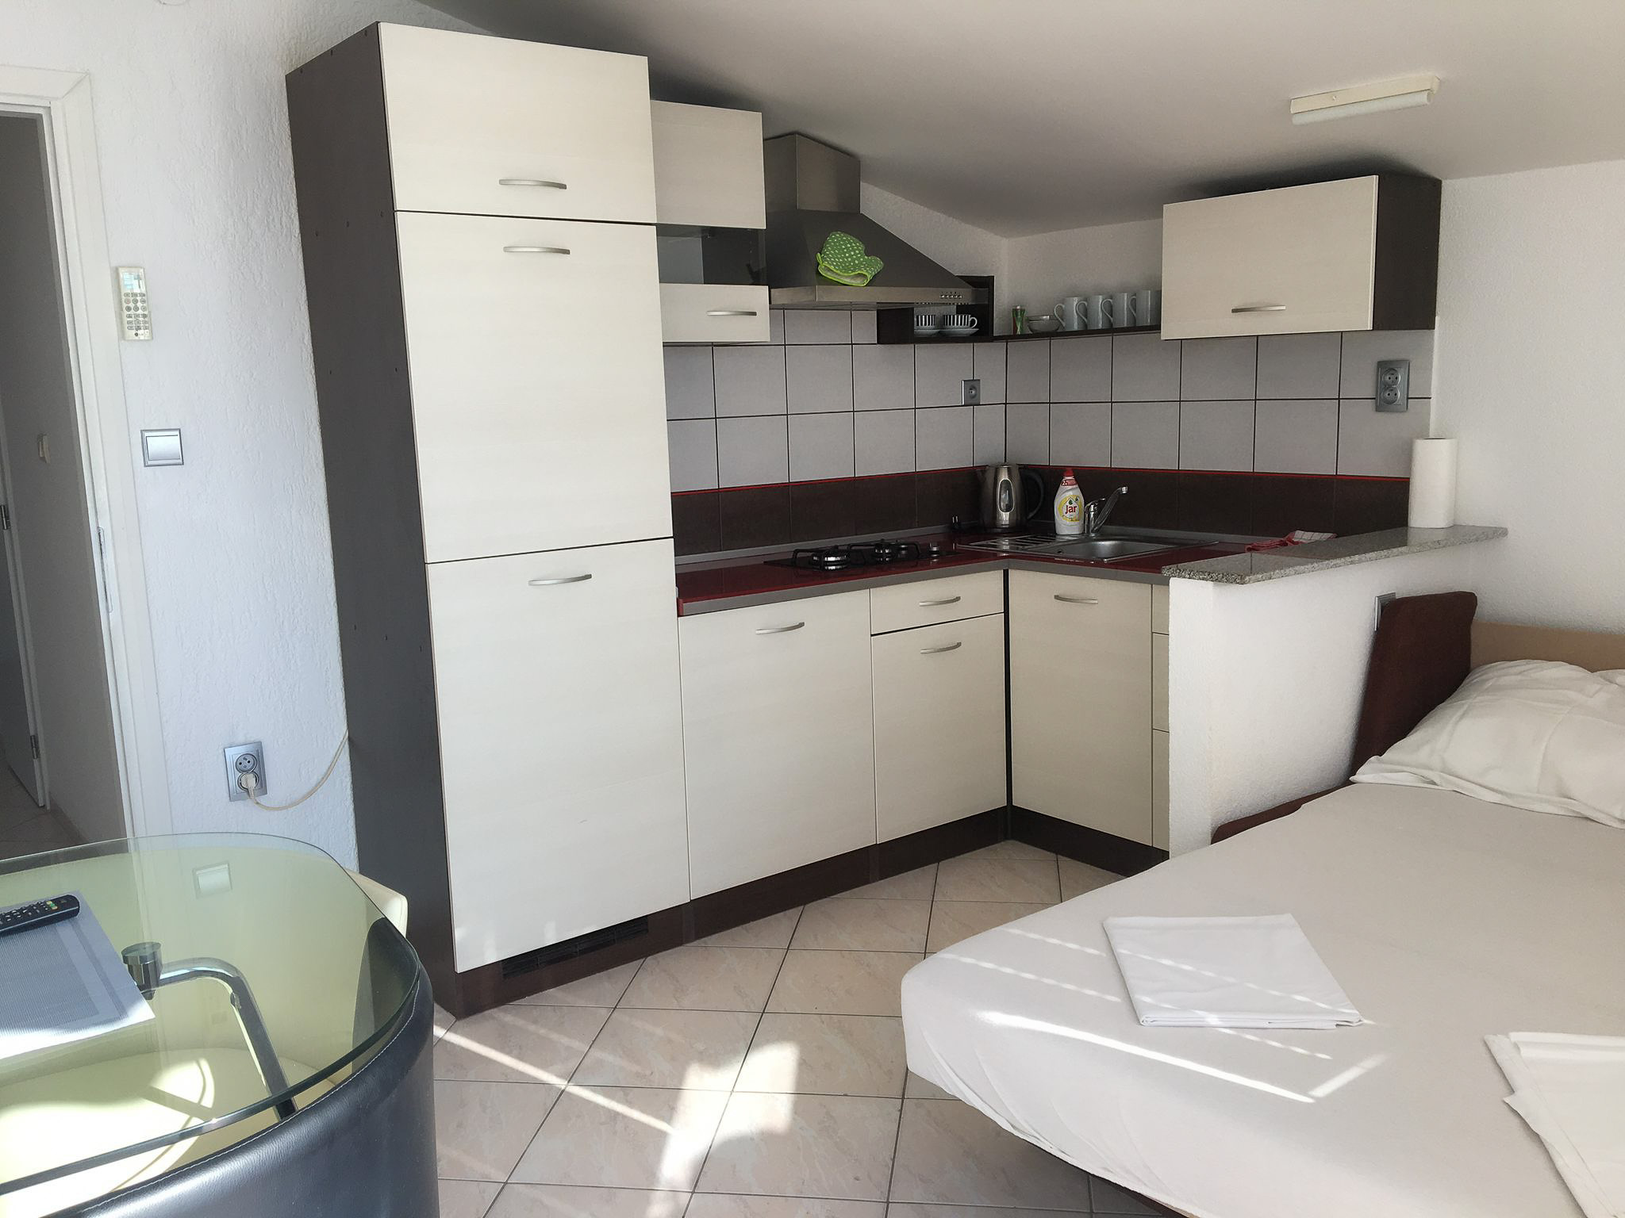
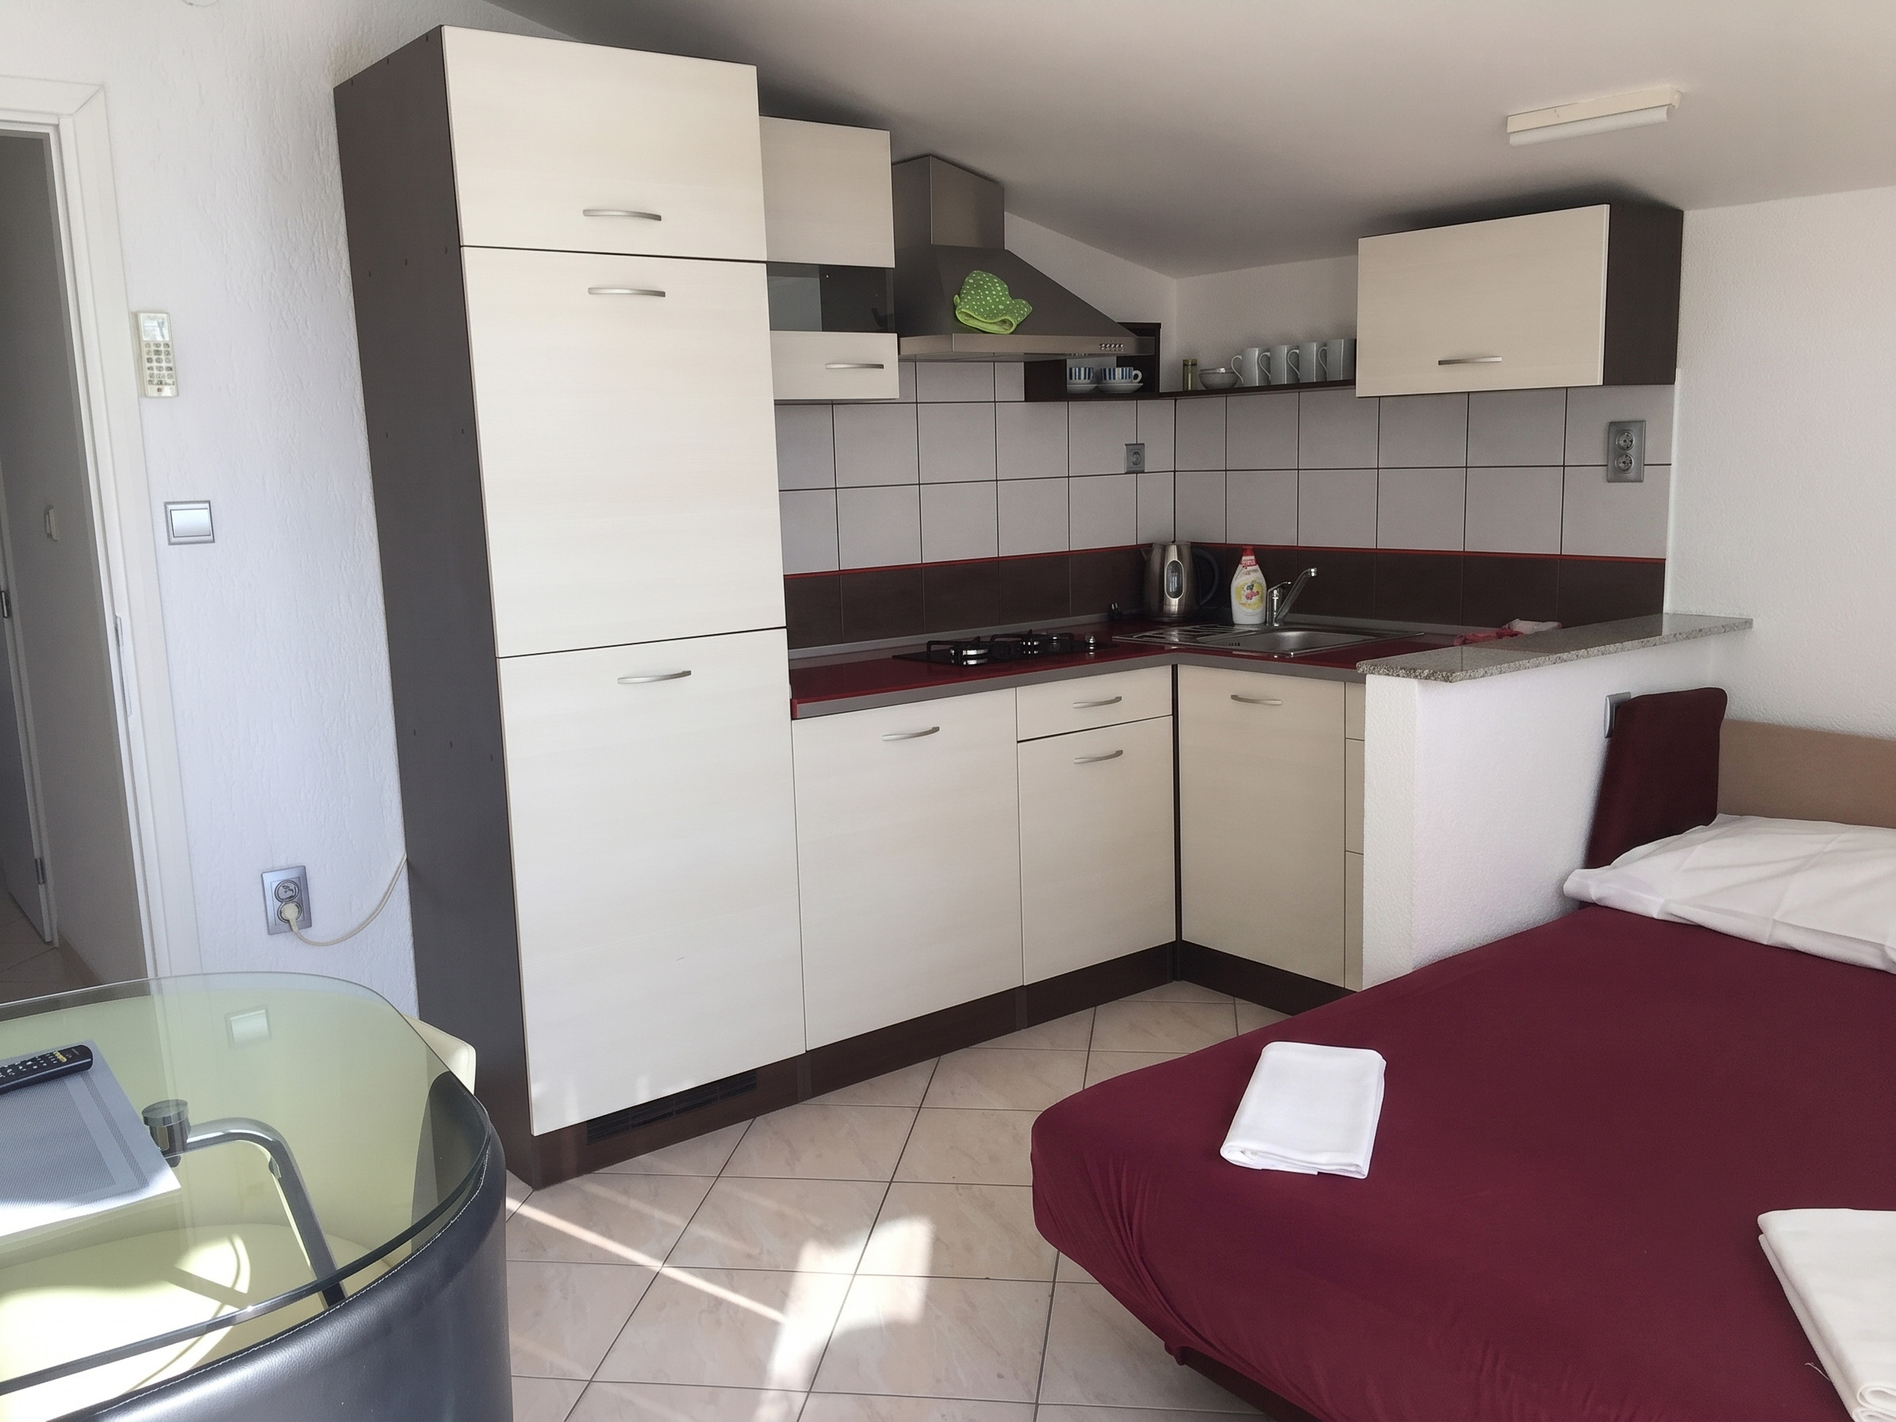
Restructure gallery: no hero, H2/H3 sections with intros and distances
- Replace hero image with text-only det-header; solidify nav
- Break the five topics into H3 subtopics using previously unused
  general photos (galery/, galary-trips/, house-air-view)
- Add short intro text per subsection and made-up trip distances
  (car/walk/boat) with a matching SVG icon sprite
- Style H3 headings in the site's display serif italic; add
  .gal-subtopic / .gal-meta rules to style.css
- Preserve H2 anchor ids so index deep-links keep working

diff --git a/galerie.html b/galerie.html
@@ -10,10 +10,32 @@
 </head>
 <body>
 
+<!-- SVG sprite -->
+<svg xmlns="http://www.w3.org/2000/svg" style="display:none">
+  <symbol id="icon-car" viewBox="0 0 24 24" fill="none">
+    <path d="M4 12.5l1.7-4.6A2 2 0 017.6 6.5h8.8a2 2 0 011.9 1.4L20 12.5v4.5a.5.5 0 01-.5.5H18a.5.5 0 01-.5-.5V16h-11v1.5a.5.5 0 01-.5.5H4.5a.5.5 0 01-.5-.5v-4.5z" stroke-linecap="round" stroke-linejoin="round"/>
+    <path d="M4 12.5h16" stroke-linecap="round"/>
+    <circle cx="7.5" cy="14.2" r="1"/>
+    <circle cx="16.5" cy="14.2" r="1"/>
+  </symbol>
+  <symbol id="icon-walk" viewBox="0 0 24 24" fill="none">
+    <circle cx="12" cy="4" r="2"/>
+    <path d="M12 6v8" stroke-linecap="round"/>
+    <path d="M7 9h10" stroke-linecap="round"/>
+    <path d="M12 14l-4 6" stroke-linecap="round"/>
+    <path d="M12 14l4 6" stroke-linecap="round"/>
+  </symbol>
+  <symbol id="icon-boat" viewBox="0 0 24 24" fill="none">
+    <path d="M4 14h16l-1.6 3.2a2 2 0 01-1.8 1.1H7.4a2 2 0 01-1.8-1.1L4 14z" stroke-linecap="round" stroke-linejoin="round"/>
+    <path d="M12 13.5V5l6 6.5" stroke-linecap="round" stroke-linejoin="round"/>
+    <path d="M12 6L7 11.5" stroke-linecap="round" stroke-linejoin="round"/>
+  </symbol>
+</svg>
+
 <!-- ============================================================
      Navigation
      ============================================================ -->
-<nav class="nav" id="nav">
+<nav class="nav nav--solid" id="nav">
   <a href="index.html" class="nav-logo">Apartmány Jadranka</a>
   <div class="nav-links">
     <a href="index.html" class="nav-back-link">&#8592; Zpět na úvod</a>
@@ -21,22 +43,19 @@
 </nav>
 
 <!-- ============================================================
-     Hero
+     Header
      ============================================================ -->
-<section class="hero det-hero" style="min-height:40vh">
-  <div class="det-hero-bg" style="background: linear-gradient(180deg, rgba(10,30,50,.5) 0%, rgba(10,30,50,.4) 45%, rgba(10,30,50,.8) 100%), url('photos/galery/house-aerial.jpg') center/cover no-repeat"></div>
-
-  <div class="det-breadcrumb">
-    <a href="index.html">Apartmány Jadranka</a>
-    <span>/</span>
-    <span>Galerie</span>
+<header class="det-header">
+  <div class="section-inner">
+    <div class="det-breadcrumb">
+      <a href="index.html">Apartmány Jadranka</a>
+      <span>/</span>
+      <span>Galerie</span>
+    </div>
+    <h1 class="det-header-name"><em>Galerie</em></h1>
+    <p class="det-header-tagline">Prohlédněte si, jak to u nás vypadá — dům, okolí i místa, která snadno navštívíte.</p>
   </div>
-
-  <div class="det-hero-content">
-    <h1 class="det-hero-name">Galerie</h1>
-    <p class="det-hero-tagline">Prohlédněte si, jak to u nás vypadá — dům, okolí i místa, která snadno navštívíte.</p>
-  </div>
-</section>
+</header>
 
 <!-- ============================================================
      Gallery Content
@@ -60,12 +79,31 @@
         Šest apartmánů, prostorné terasy s výhledem na Jadran a bazén obklopený
         kamennými terasami — to vše jen pár kroků od vody.
       </p>
-      <div class="gal-photo-grid">
-        <div class="gal-photo">
-          <img src="photos/galery/house-aerial.jpg" alt="Dům z dronu — pohled na moře" loading="lazy">
+
+      <div class="gal-subtopic">
+        <h3 class="gal-subtopic-title">Dům z výšky a exteriér</h3>
+        <p class="gal-subtopic-desc">Rodinný dům stojí na samém konci vesnice Zubovići, přímo nad vlastní zátokou — šest apartmánů, zahrada s grilem a parkování hned u dveří.</p>
+        <div class="gal-meta">
+          <span class="gal-meta-item"><svg class="gal-meta-icon"><use href="#icon-walk"/></svg> 1 min k moři</span>
         </div>
-        <div class="gal-photo"><img src="photos/galery/house-exterior-garden-bbq.jpg" alt="Exteriér domu — zahrada a venkovní gril" loading="lazy"></div>
-        <div class="gal-photo"><img src="photos/galery/house-exterior-sea-path.jpg" alt="Cesta mezi domem a mořem" loading="lazy"></div>
+        <div class="gal-photo-grid">
+          <div class="gal-photo"><img src="photos/galery/house-aerial.jpg" alt="Dům z dronu — pohled na moře" loading="lazy"></div>
+          <div class="gal-photo"><img src="photos/house-air-view.jpg" alt="Letecký pohled na dům a okolí" loading="lazy"></div>
+          <div class="gal-photo"><img src="photos/galery/house-exterior-sea-path.jpg" alt="Cesta mezi domem a mořem" loading="lazy"></div>
+          <div class="gal-photo"><img src="photos/galery/house-exterior-garden-bbq.jpg" alt="Exteriér domu — zahrada a venkovní gril" loading="lazy"></div>
+          <div class="gal-photo"><img src="photos/galery/location-sign-zubovici.jpg" alt="Cedule s názvem lokality Zubovići" loading="lazy"></div>
+        </div>
+      </div>
+
+      <div class="gal-subtopic">
+        <h3 class="gal-subtopic-title">Terasy a večerní posezení</h3>
+        <p class="gal-subtopic-desc">Prostorné terasy s výhledem na Jadran patří k nejoblíbenějším místům — od ranní kávy až po večerní promítání pod hvězdami.</p>
+        <div class="gal-photo-grid">
+          <div class="gal-photo"><img src="photos/galery/terrace-dining-sunset.jpg" alt="Večeře na terase při západu slunce" loading="lazy"></div>
+          <div class="gal-photo"><img src="photos/galery/terrace-pergola-dining.jpg" alt="Terasa s pergolou a jídelním stolem" loading="lazy"></div>
+          <div class="gal-photo"><img src="photos/galery/sunset-terrace.jpg" alt="Terasa při západu slunce nad mořem" loading="lazy"></div>
+          <div class="gal-photo"><img src="photos/galery/outdoor-cinema-night.jpg" alt="Venkovní kino pod širým nebem" loading="lazy"></div>
+        </div>
       </div>
     </div>
 
@@ -73,13 +111,34 @@
     <div class="gal-topic" id="vybaveni">
       <h2 class="gal-topic-title">Bazén a pláž</h2>
       <p class="gal-topic-desc">
-        K domu patří bazén s lehátky a slunečníky, ideální pro odpočinek během horkých letních dnů.
-        Soukromá pláž je přístupná přímo z pozemku — stačí sejít pár schodů a jste u křišťálově čistého moře.
+        K domu patří vyhřívaný bazén s protiproudem a vířivka, ideální pro odpočinek během
+        horkých letních dnů. Soukromá pláž s molem je přístupná přímo z pozemku — stačí sejít
+        pár schodů a jste u křišťálově čistého moře.
       </p>
-      <div class="gal-photo-grid">
-        <div class="gal-photo"><img src="photos/galery/dock-swim-turquoise.jpg" alt="Molo a koupání v tyrkysovém moři" loading="lazy"></div>
-        <div class="gal-photo"><img src="photos/galery/dock-swim-cove-stairs.jpg" alt="Schody k soukromé pláži a moři" loading="lazy"></div>
-        <div class="gal-photo"><img src="photos/galery/terrace-waterfront-boats.jpg" alt="Terasa u vody s lehátky a čluny" loading="lazy"></div>
+
+      <div class="gal-subtopic">
+        <h3 class="gal-subtopic-title">Bazén a vířivka</h3>
+        <p class="gal-subtopic-desc">Vyhřívaný bazén s protiproudem a vířivka jsou v provozu po celou sezonu — s lehátky a slunečníky jen kousek od vody.</p>
+        <div class="gal-photo-grid">
+          <div class="gal-photo"><img src="photos/galery/terrace-jacuzzi-aerial-dusk.jpg" alt="Vířivka a terasa z výšky za soumraku" loading="lazy"></div>
+          <div class="gal-photo"><img src="photos/galery/bay-dusk-lights.jpg" alt="Zátoka s večerním osvětlením" loading="lazy"></div>
+          <div class="gal-photo"><img src="photos/galery/bay-dusk-lights-2.jpg" alt="Večerní pohled na zátoku a světla" loading="lazy"></div>
+        </div>
+      </div>
+
+      <div class="gal-subtopic">
+        <h3 class="gal-subtopic-title">Molo a soukromá pláž</h3>
+        <p class="gal-subtopic-desc">Soukromé molo s bójkami pro vaši loď či skútr a schody přímo do křišťálového moře — vše jen pár kroků od apartmánů.</p>
+        <div class="gal-meta">
+          <span class="gal-meta-item"><svg class="gal-meta-icon"><use href="#icon-walk"/></svg> 1 min pěšky</span>
+        </div>
+        <div class="gal-photo-grid">
+          <div class="gal-photo"><img src="photos/galery/dock-swim-turquoise.jpg" alt="Molo a koupání v tyrkysovém moři" loading="lazy"></div>
+          <div class="gal-photo"><img src="photos/galery/dock-swim-cove-stairs.jpg" alt="Schody k soukromé pláži a moři" loading="lazy"></div>
+          <div class="gal-photo"><img src="photos/galery/terrace-waterfront-boats.jpg" alt="Terasa u vody s lehátky a čluny" loading="lazy"></div>
+          <div class="gal-photo"><img src="photos/galery/dock-fishing-goldenhour.jpg" alt="Rybaření z mola za zlatavého světla" loading="lazy"></div>
+          <div class="gal-photo"><img src="photos/galery/boat-cove-beach.jpg" alt="Člun v zátoce u pláže" loading="lazy"></div>
+        </div>
       </div>
     </div>
 
@@ -91,10 +150,16 @@
         po písčité pláže s pozvolným vstupem do moře. Většina je dosažitelná pěšky nebo krátkým
         přejezdem autem. Voda je průzračná a moře čisté po celou sezonu.
       </p>
+      <div class="gal-meta">
+        <span class="gal-meta-item"><svg class="gal-meta-icon"><use href="#icon-walk"/></svg> od 3 min pěšky</span>
+        <span class="gal-meta-item"><svg class="gal-meta-icon"><use href="#icon-car"/></svg> do 15 min autem</span>
+      </div>
       <div class="gal-photo-grid">
         <div class="gal-photo"><img src="photos/galery/beach-pebble-lagoon.jpg" alt="Oblázková pláž s křišťálovou lagunou" loading="lazy"></div>
         <div class="gal-photo"><img src="photos/galery/beach-cove-aerial-view.jpg" alt="Zátoka z výšky s dramatickými mraky" loading="lazy"></div>
         <div class="gal-photo"><img src="photos/galery/beach-umbrellas.jpg" alt="Písečná pláž se slunečníky" loading="lazy"></div>
+        <div class="gal-photo"><img src="photos/galery/beach-family.jpg" alt="Rodinná pláž s mělkým vstupem do moře" loading="lazy"></div>
+        <div class="gal-photo"><img src="photos/galery/beach-cove-crowded.jpg" alt="Oblíbená zátoka v hlavní sezoně" loading="lazy"></div>
       </div>
     </div>
 
@@ -106,10 +171,30 @@
         historické město Pag s krajkovým dědictvím a slavné solanky. Unikátní atmosféra,
         pažský sýr, jehněčí pod pekou a 2 700 hodin slunce ročně.
       </p>
-      <div class="gal-photo-grid">
-        <div class="gal-photo"><img src="photos/galary-trips/life_on_mars/life-on-mars-landscape.jpg" alt="Měsíční krajina ostrova Pag" loading="lazy"></div>
-        <div class="gal-photo"><img src="photos/galary-trips/life_on_mars/life-on-mars-landscape-2.jpg" alt="Skalnaté pobřeží měsíční krajiny" loading="lazy"></div>
-        <div class="gal-photo"><img src="photos/galery/bay-panorama.jpg" alt="Panorama zátoky z kopce" loading="lazy"></div>
+
+      <div class="gal-subtopic">
+        <h3 class="gal-subtopic-title">Měsíční krajina</h3>
+        <p class="gal-subtopic-desc">Sever ostrova připomíná měsíční povrch — bílé kamení, vítr a trasa slavného trailového závodu Life on Mars.</p>
+        <div class="gal-meta">
+          <span class="gal-meta-item"><svg class="gal-meta-icon"><use href="#icon-car"/></svg> 15 min autem</span>
+        </div>
+        <div class="gal-photo-grid">
+          <div class="gal-photo"><img src="photos/galary-trips/life_on_mars/life-on-mars-landscape.jpg" alt="Měsíční krajina ostrova Pag" loading="lazy"></div>
+          <div class="gal-photo"><img src="photos/galary-trips/life_on_mars/life-on-mars-landscape-2.jpg" alt="Skalnaté pobřeží měsíční krajiny" loading="lazy"></div>
+          <div class="gal-photo"><img src="photos/galary-trips/life_on_mars/life-on-mars-trail-sign.jpg" alt="Značení trailu Life on Mars" loading="lazy"></div>
+        </div>
+      </div>
+
+      <div class="gal-subtopic">
+        <h3 class="gal-subtopic-title">Zátoky a výhledy</h3>
+        <p class="gal-subtopic-desc">Vyhlídky nad zátokami nabízejí jedny z nejhezčích panoramat na Pagu — nejkrásnější jsou za soumraku.</p>
+        <div class="gal-meta">
+          <span class="gal-meta-item"><svg class="gal-meta-icon"><use href="#icon-car"/></svg> 10 min autem</span>
+        </div>
+        <div class="gal-photo-grid">
+          <div class="gal-photo"><img src="photos/galery/bay-panorama.jpg" alt="Panorama zátoky z kopce" loading="lazy"></div>
+          <div class="gal-photo"><img src="photos/galery/bay-panorama-2.jpg" alt="Široké panorama pobřeží" loading="lazy"></div>
+        </div>
       </div>
     </div>
 
@@ -121,10 +206,44 @@
         navštívíte národní park Paklenica nebo se vydáte na výlet do Zadaru.
         Celý ostrov Pag projdete autem za 40 minut — každý den můžete objevit něco nového.
       </p>
-      <div class="gal-photo-grid">
-        <div class="gal-photo"><img src="photos/galary-trips/bertniaca/bertniaca-cove.jpg" alt="Zátoka Bertniaca s oblázkovou pláží" loading="lazy"></div>
-        <div class="gal-photo"><img src="photos/galary-trips/rucica/rucica-beach.jpg" alt="Pláž Ručica s plážovým barem" loading="lazy"></div>
-        <div class="gal-photo"><img src="photos/galary-trips/stogaj/stogaj-rock-spire-sunset.jpg" alt="Skalní věž Stogaj při západu slunce" loading="lazy"></div>
+
+      <div class="gal-subtopic">
+        <h3 class="gal-subtopic-title">Zátoka Bertniaca</h3>
+        <p class="gal-subtopic-desc">Klidná oblázková zátoka s průzračnou vodou, kterou nejlépe objevíte autem nebo krátkou plavbou lodí.</p>
+        <div class="gal-meta">
+          <span class="gal-meta-item"><svg class="gal-meta-icon"><use href="#icon-car"/></svg> 25 min autem</span>
+          <span class="gal-meta-item"><svg class="gal-meta-icon"><use href="#icon-boat"/></svg> 15 min lodí</span>
+        </div>
+        <div class="gal-photo-grid">
+          <div class="gal-photo"><img src="photos/galary-trips/bertniaca/bertniaca-cove.jpg" alt="Zátoka Bertniaca s oblázkovou pláží" loading="lazy"></div>
+          <div class="gal-photo"><img src="photos/galary-trips/bertniaca/bertniaca-cove-aerial.jpg" alt="Zátoka Bertniaca z výšky" loading="lazy"></div>
+          <div class="gal-photo"><img src="photos/galary-trips/bertniaca/bertniaca-cove-2.jpg" alt="Zátoka Bertniaca — pohled od moře" loading="lazy"></div>
+        </div>
+      </div>
+
+      <div class="gal-subtopic">
+        <h3 class="gal-subtopic-title">Pláž Ručica</h3>
+        <p class="gal-subtopic-desc">Známá pláž ukrytá pod útesy poloostrova, s plážovým barem a výhledem na otevřené moře.</p>
+        <div class="gal-meta">
+          <span class="gal-meta-item"><svg class="gal-meta-icon"><use href="#icon-car"/></svg> 30 min autem</span>
+          <span class="gal-meta-item"><svg class="gal-meta-icon"><use href="#icon-walk"/></svg> 15 min pěšky</span>
+        </div>
+        <div class="gal-photo-grid">
+          <div class="gal-photo"><img src="photos/galary-trips/rucica/rucica-beach.jpg" alt="Pláž Ručica s plážovým barem" loading="lazy"></div>
+        </div>
+      </div>
+
+      <div class="gal-subtopic">
+        <h3 class="gal-subtopic-title">Skalní věž Stogaj</h3>
+        <p class="gal-subtopic-desc">Osamělá skalní věž nad mořem, oblíbený cíl vyhlídkových procházek za západem slunce.</p>
+        <div class="gal-meta">
+          <span class="gal-meta-item"><svg class="gal-meta-icon"><use href="#icon-car"/></svg> 20 min autem</span>
+          <span class="gal-meta-item"><svg class="gal-meta-icon"><use href="#icon-walk"/></svg> 30 min pěšky</span>
+        </div>
+        <div class="gal-photo-grid">
+          <div class="gal-photo"><img src="photos/galary-trips/stogaj/stogaj-rock-spire.jpg" alt="Skalní věž Stogaj" loading="lazy"></div>
+          <div class="gal-photo"><img src="photos/galary-trips/stogaj/stogaj-rock-spire-sunset.jpg" alt="Skalní věž Stogaj při západu slunce" loading="lazy"></div>
+        </div>
       </div>
     </div>
 

diff --git a/apartman-5.html b/apartman-5.html
@@ -83,12 +83,11 @@
     <div class="gal-photo-grid">
       <div class="gal-photo"><img src="photos/apartment-5/apartment-5-terrace-dusk.jpg" alt="Terasa za soumraku" loading="lazy"></div>
       <div class="gal-photo"><img src="photos/apartment-5/apartment-5-terrace-sunset.jpg" alt="Terasa při západu slunce" loading="lazy"></div>
-      <div class="gal-photo"><img src="photos/apartment-5/apartment-5-sea_view-sunset.jpg" alt="Výhled na moře při západu slunce" loading="lazy"></div>
+
       <div class="gal-photo"><img src="photos/apartment-5/apartment-5-living-room.jpg" alt="Obývací pokoj" loading="lazy"></div>
-      <div class="gal-photo"><img src="photos/apartment-5/apartment-5-living-room-2.jpg" alt="Obývací pokoj — další pohled" loading="lazy"></div>
+
       <div class="gal-photo"><img src="photos/apartment-5/apartment-5-studio.jpg" alt="Studiový kout" loading="lazy"></div>
       <div class="gal-photo"><img src="photos/apartment-5/apartment-5-kitchen.jpg" alt="Kuchyň" loading="lazy"></div>
-      <div class="gal-photo"><img src="photos/apartment-5/apartment-5-bedroom.jpg" alt="Ložnice" loading="lazy"></div>
       <div class="gal-photo"><img src="photos/apartment-5/apartment-5-bedroom-2.jpg" alt="Ložnice — další pohled" loading="lazy"></div>
       <div class="gal-photo"><img src="photos/apartment-5/apartment-5-bathroom.jpg" alt="Koupelna" loading="lazy"></div>
       <div class="gal-photo"><img src="photos/apartment-5/apartment-5-toilet.jpg" alt="Samostatné WC" loading="lazy"></div>

diff --git a/style.css b/style.css
@@ -710,6 +710,55 @@ section {
   scroll-margin-top: 7rem;
 }
 
+.gal-subtopic {
+  margin-bottom: 2.75rem;
+}
+
+.gal-subtopic-title {
+  font-family: var(--font-display);
+  font-size: 1.6rem;
+  font-weight: 400;
+  font-style: italic;
+  color: var(--sea);
+  line-height: 1.2;
+  margin-bottom: .4rem;
+}
+
+.gal-subtopic-desc {
+  font-size: .9rem;
+  font-weight: 300;
+  color: var(--ink-light);
+  line-height: 1.7;
+  max-width: 640px;
+  margin-bottom: 1rem;
+}
+
+.gal-meta {
+  display: flex;
+  flex-wrap: wrap;
+  gap: .5rem 1.5rem;
+  margin-bottom: 1.25rem;
+}
+
+.gal-meta-item {
+  display: inline-flex;
+  align-items: center;
+  gap: .45rem;
+  font-size: .68rem;
+  font-weight: 600;
+  letter-spacing: .12em;
+  text-transform: uppercase;
+  color: var(--terracotta);
+}
+
+.gal-meta-icon {
+  width: 15px;
+  height: 15px;
+  stroke: var(--terracotta);
+  stroke-width: 1.5;
+  flex-shrink: 0;
+}
+
 .gal-topic-title {
   font-family: var(--font-display);
   font-size: 2rem;

diff --git a/index.html b/index.html
@@ -40,7 +40,6 @@
     <!-- <a href="#leto">Léto</a>
     <a href="#aktivity">Mimo sezónu</a>-->
     <a href="#doprava">Doprava</a>
-    <a href="#o-nas">O nás</a>
     <a href="#kalendar" class="nav-cta">Volné termíny</a>
   </div>
 </nav>
